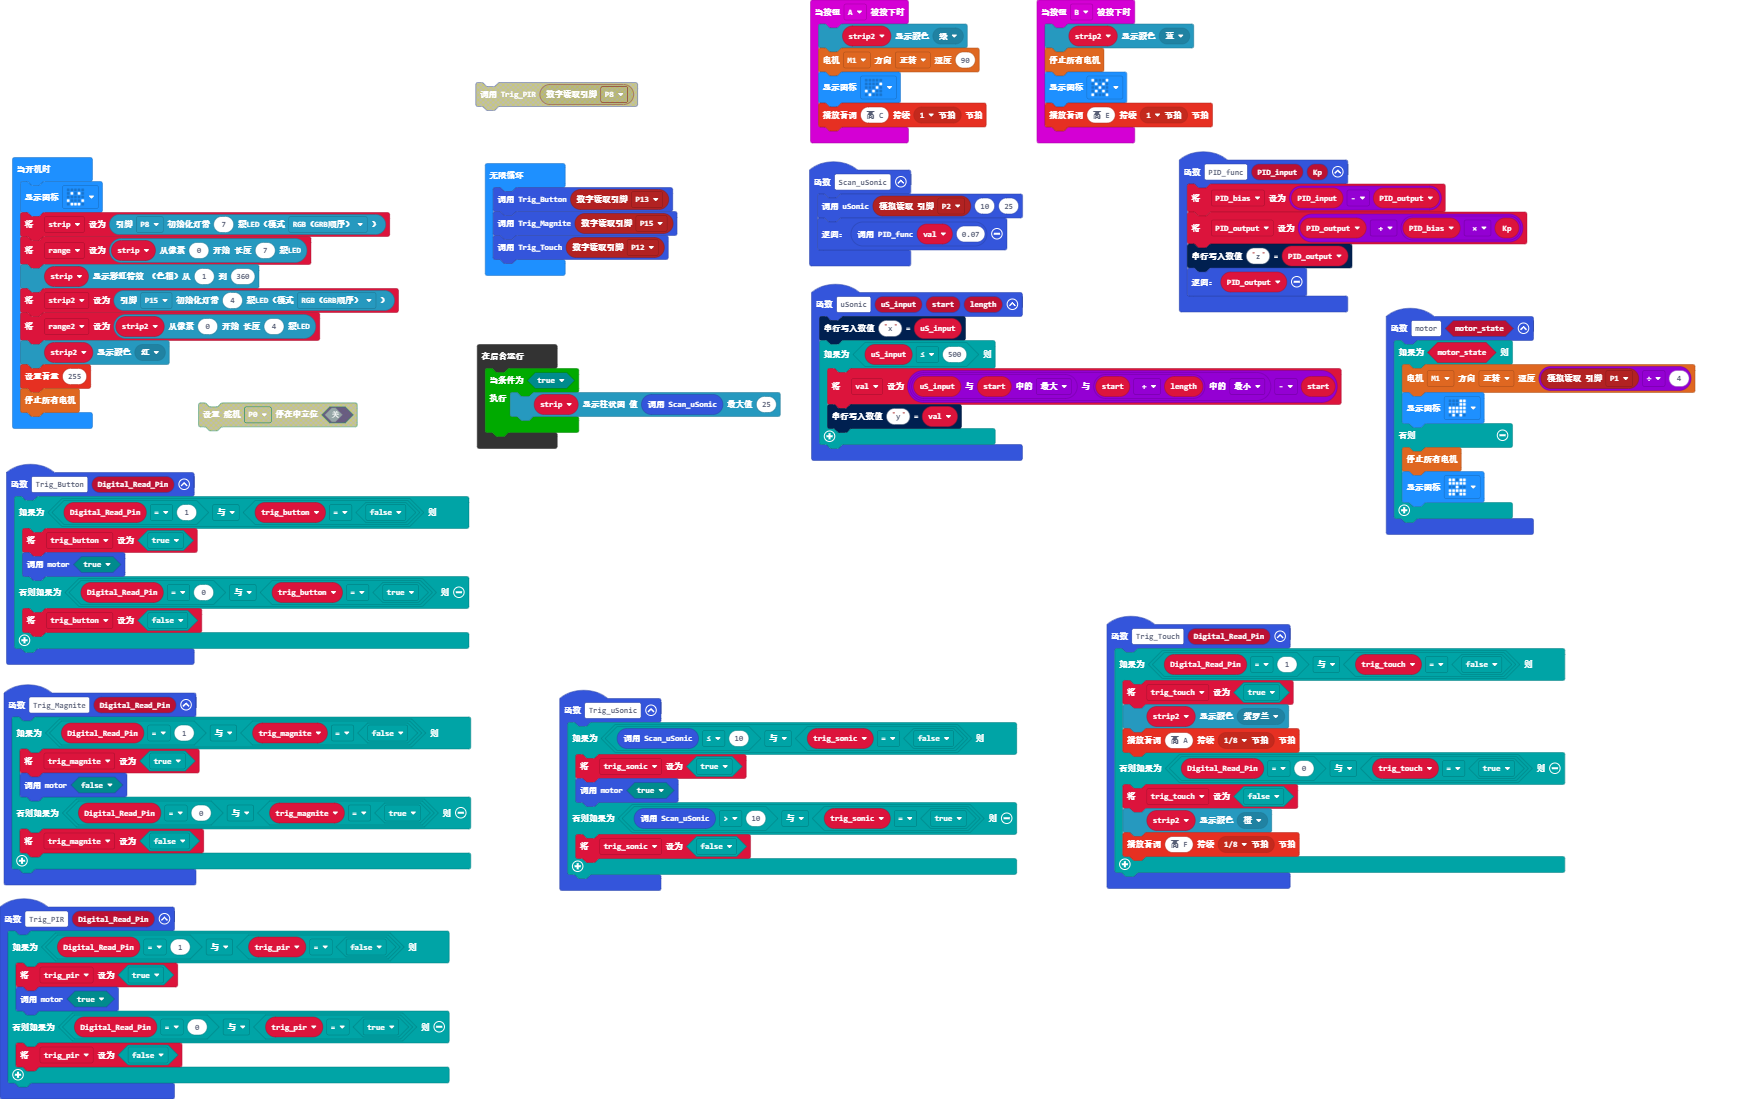
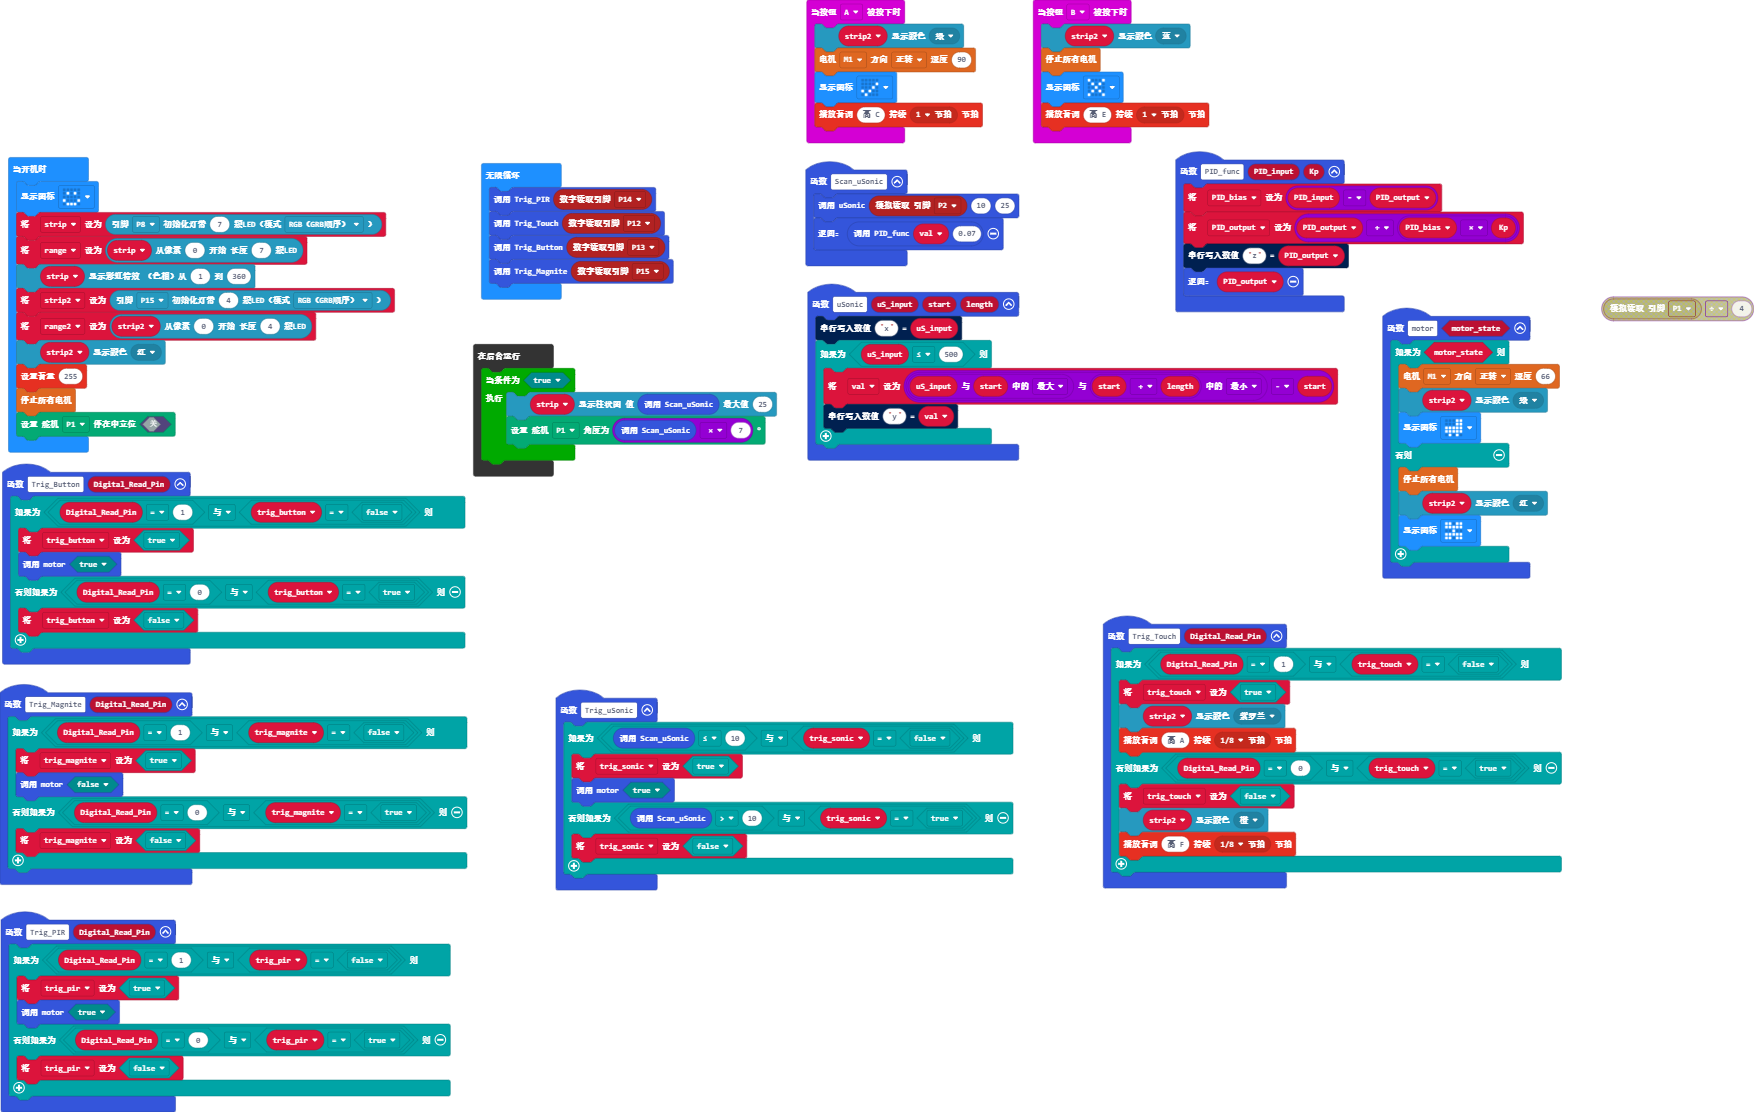
release

diff --git a/main.ts b/main.ts
@@ -1,9 +1,11 @@
 function motor (motor_state: boolean) {
     if (motor_state) {
-        microIOBOX.motorRun(microIOBOX.Motors.M1, microIOBOX.Dir.CW, pins.analogReadPin(AnalogPin.P1) / 4)
+        microIOBOX.motorRun(microIOBOX.Motors.M1, microIOBOX.Dir.CW, 66)
+        strip2.showColor(neopixel.colors(NeoPixelColors.Green))
         basic.showIcon(IconNames.Rollerskate)
     } else {
         microIOBOX.motorStopAll()
+        strip2.showColor(neopixel.colors(NeoPixelColors.Red))
         basic.showIcon(IconNames.Butterfly)
     }
 }
@@ -97,13 +99,16 @@ let range2 = strip2.range(0, 4)
 strip2.showColor(neopixel.colors(NeoPixelColors.Red))
 music.setVolume(255)
 microIOBOX.motorStopAll()
+servos.P1.setStopOnNeutral(false)
 basic.forever(function () {
+    Trig_PIR(pins.digitalReadPin(DigitalPin.P14))
+    Trig_Touch(pins.digitalReadPin(DigitalPin.P12))
     Trig_Button(pins.digitalReadPin(DigitalPin.P13))
     Trig_Magnite(pins.digitalReadPin(DigitalPin.P15))
-    Trig_Touch(pins.digitalReadPin(DigitalPin.P12))
 })
 control.inBackground(function () {
     while (true) {
         strip.showBarGraph(Scan_uSonic(), 25)
+        servos.P1.setAngle(Scan_uSonic() * 7)
     }
 })
